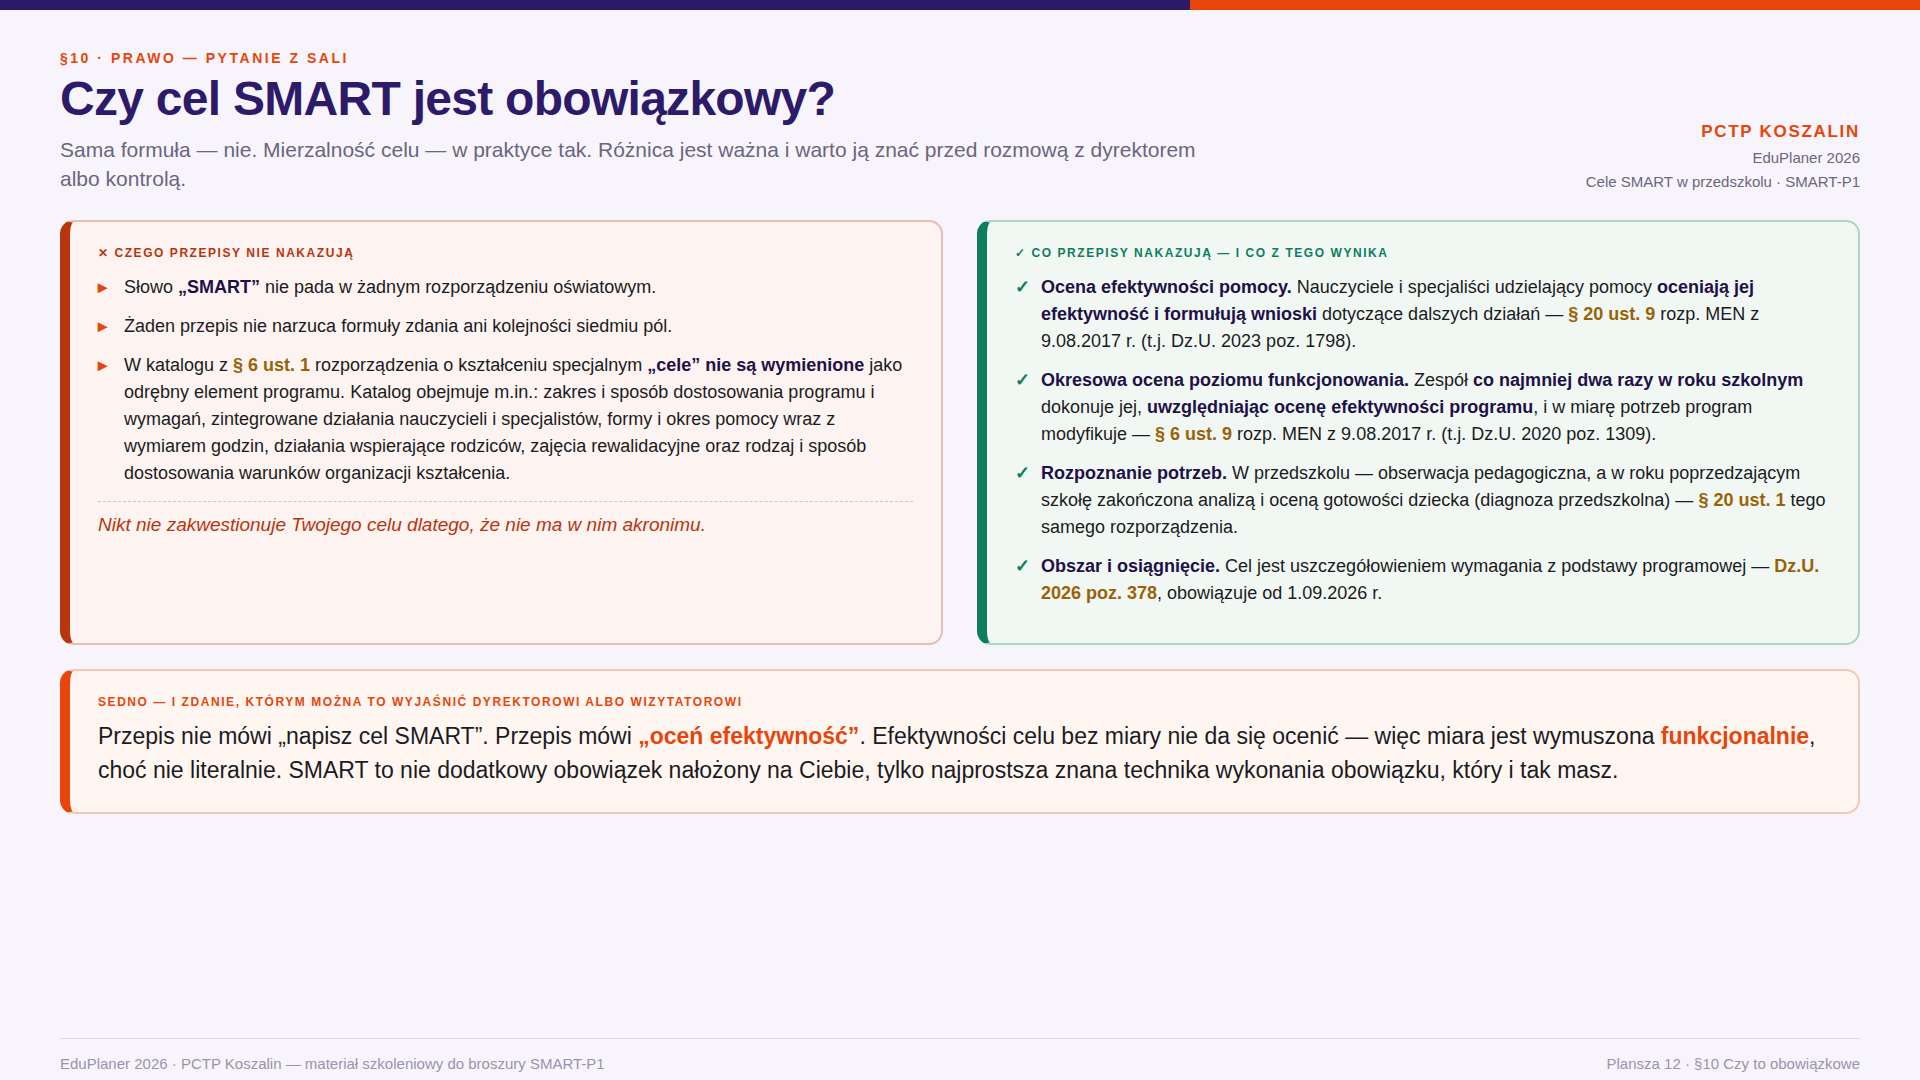
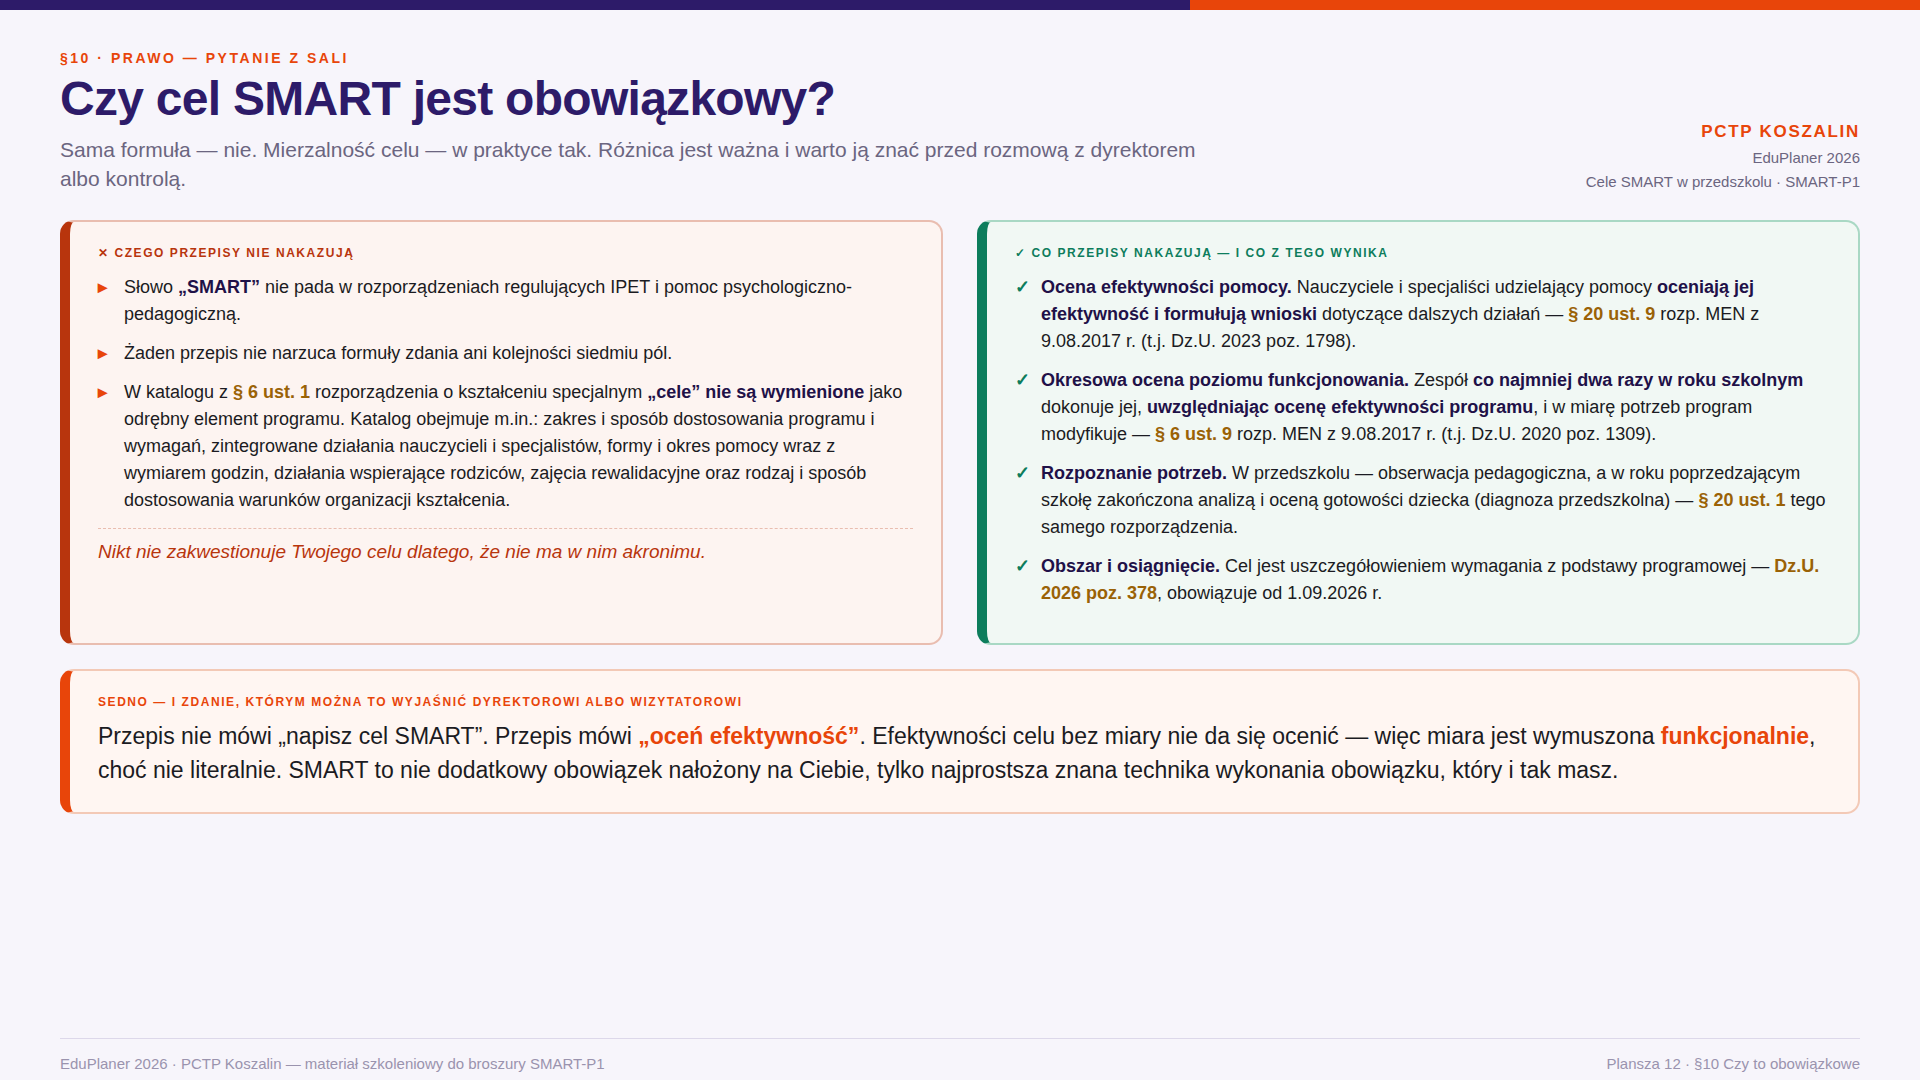
Popraw trzy nadmierne twierdzenia prawne w narracji filmu
Kontrola własnych tez wykryła trzy miejsca, które nie broniły się przed
sprawdzeniem, więc zostały przeredagowane, a nie tylko opatrzone zastrzeżeniem:

1. „Słowo SMART nie pada w żadnym rozporządzeniu oświatowym" — teza o wszystkich
   rozporządzeniach, nie do zweryfikowania. Teraz ograniczona do rozporządzeń
   regulujących IPET i pomoc psychologiczno-pedagogiczną.
2. „§ 6 obowiązuje dalej, w tym samym brzmieniu" — nie potwierdzone; przepisy
   o kształceniu specjalnym były nowelizowane po tekście jednolitym z 2020 r.
   Teraz mówimy, skąd naprawdę płynie obowiązek mierzalności, i dokładamy
   przypomnienie o sprawdzeniu tekstu jednolitego w ISAP.
3. „Cel musi wskazać obszar oraz numer osiągnięcia" — to zalecenie dokumentacyjne
   z broszury, nie nakaz przepisu. Teraz: „w dokumentacji wskazuj".

Dodatkowo „pierwszy przegląd wypadnie w styczniu" zastąpione przez „wypada zwykle
na przełomie semestrów" — przepis mówi o dwóch razach w roku, nie o styczniu.

Plansze, scenariusz i narracja zaktualizowane; zrodla.md dostaje tabelę błędów
z poprawkami oraz listę powołań przepisanych z broszury, których nie udało się
zweryfikować w tej sesji.

Claude-Session: https://claude.ai/code/session_018WRro5h31bSWLV3XxCN4YU

Changed region(s): [[0.0312, 0.2444, 0.4688, 0.5194]]

diff --git a/materialy/cele-smart-w-przedszkolu/plansze/10c_stare_nowe.html b/materialy/cele-smart-w-przedszkolu/plansze/10c_stare_nowe.html
@@ -18,6 +18,7 @@
 .nowe-chipy span{background:#FFF6F2;color:var(--pomarancz);border:1px solid #F3C9B6}
 .dwie ul.pkt li{font-size:17.5px;line-height:1.45;margin-bottom:7px}
 .dwie ul.pkt li b{color:var(--fiolet-cn)}
+.ostrzezenie{margin-top:13px;padding-top:11px;border-top:1px dashed #A9D8C4;font-size:15.5px;line-height:1.45;color:var(--mute)}
 .bez-zmian{margin-top:26px;background:#F1F8F4;border:2px solid #A9D8C4;border-left:10px solid var(--zielony);
  border-radius:14px;padding:20px 26px}
 .trzy{display:grid;grid-template-columns:1fr 1fr 1fr;gap:22px;margin-top:6px}
@@ -53,18 +54,19 @@
     <div class="et2">Dziewięć obszarów</div>
     <div class="chipy nowe-chipy"><span>społeczny</span><span>osobisty</span><span>językowy</span><span>matematyczny</span><span>przyrodniczy</span><span>techniczny</span><span>cyfrowy</span><span>artystyczny</span><span>ruchowy</span></div>
     <ul class="pkt ptaszki">
-      <li>Cel musi wskazać <b>obszar oraz numer osiągnięcia</b> z załącznika.</li>
+      <li>W dokumentacji wskazuj <b>obszar oraz numer osiągnięcia</b> z załącznika.</li>
       <li>To numer osiągnięcia obroni cel przed zespołem i organem nadzoru.</li>
     </ul>
   </div>
 </div>
 <div class="bez-zmian" id="bezzmian">
-  <div class="et2" style="color:var(--zielony)">Czego zmiana NIE ruszyła — te przepisy obowiązują dalej, w tym samym brzmieniu</div>
+  <div class="et2" style="color:var(--zielony)">Czego zmiana NIE ruszyła — to te przepisy, a nie podstawa programowa, wymagają mierzalności</div>
   <div class="trzy">
     <div><b>§ 6</b><span>Rozp. MEN z 9.08.2017 r. o kształceniu specjalnym <i>(t.j. Dz.U. 2020 poz. 1309)</i> — treść IPET oraz okresowa wielospecjalistyczna ocena poziomu funkcjonowania co najmniej dwa razy w roku szkolnym.</span></div>
     <div><b>§ 20 ust. 9</b><span>Rozp. MEN z 9.08.2017 r. o pomocy psychologiczno-pedagogicznej <i>(t.j. Dz.U. 2023 poz. 1798)</i> — ocena efektywności udzielonej pomocy i wnioski do dalszej pracy.</span></div>
-    <div class="wniosek-blok"><b>Wniosek</b><span>Obowiązek <b>mierzalności</b> celu nie zmienił się ani o jotę. Zmienił się wyłącznie <b>adres obszaru</b>, do którego cel przypisujesz — z czterech na dziewięć.</span></div>
+    <div class="wniosek-blok"><b>Wniosek</b><span>Nowa podstawa <b>nie ruszyła obowiązku mierzalności</b> — on płynie z tych dwóch rozporządzeń. Zmienił się <b>adres obszaru</b>, do którego cel przypisujesz: z czterech na dziewięć.</span></div>
   </div>
+  <p class="ostrzezenie">Numery tekstów jednolitych sprawdź w ISAP przed zacytowaniem — rozporządzenia bywają nowelizowane częściej, niż zmienia się ich treść merytoryczna.</p>
 </div></div>
   <div class="stopka"><span>EduPlaner 2026 · PCTP Koszalin — materiał szkoleniowy do broszury SMART-P1</span><span>Plansza 12b · §10 Stare i nowe rozporządzenie</span></div>
 </div></body></html>

diff --git a/materialy/cele-smart-w-przedszkolu/plansze/10b_czy_obowiazkowe.html b/materialy/cele-smart-w-przedszkolu/plansze/10b_czy_obowiazkowe.html
@@ -19,7 +19,7 @@
   <div class="zle-blok">
     <div class="et" style="color:var(--czerwony)">✕ Czego przepisy NIE nakazują</div>
     <ul class="pkt" style="margin-top:14px">
-      <li>Słowo <b>„SMART”</b> nie pada w żadnym rozporządzeniu oświatowym.</li>
+      <li>Słowo <b>„SMART”</b> nie pada w rozporządzeniach regulujących IPET i pomoc psychologiczno-pedagogiczną.</li>
       <li>Żaden przepis nie narzuca formuły zdania ani kolejności siedmiu pól.</li>
       <li>W katalogu z <span class="pp">§ 6 ust. 1</span> rozporządzenia o kształceniu specjalnym
           <b>„cele” nie są wymienione</b> jako odrębny element programu. Katalog obejmuje m.in.:

diff --git a/materialy/cele-smart-w-przedszkolu/zbuduj_scenariusz.py b/materialy/cele-smart-w-przedszkolu/zbuduj_scenariusz.py
@@ -39,7 +39,8 @@ Obserwacja wstępna trwa właśnie w tych tygodniach. Cel wpisany źle we wrześ
 
 Trzecia. Ocena efektywności udzielanej pomocy to obowiązek, nie dobra wola.
 Zespół co najmniej dwa razy w roku ocenia poziom funkcjonowania dziecka i skuteczność programu.
-Pierwszy przegląd wypadnie w styczniu. Do stycznia policzy się tylko to, co ma miarę wpisaną dziś."""),
+Pierwszy przegląd wypada zwykle na przełomie semestrów.
+Policzy się wtedy tylko to, co ma miarę wpisaną dziś."""),
 
 ("3","Cel-życzenie kontra cel-narzędzie","plansze/01_zyczenie_narzedzie.png",80,
  ["§1 · Po co","Zasada trzech osób"],
@@ -284,20 +285,26 @@ Po prawej stan od pierwszego września. Rozporządzenie Ministra Edukacji z jede
 dwa tysiące dwudziestego szóstego roku, pozycja trzysta siedemdziesiąt osiem.
 Obszarów jest teraz dziewięć: społeczny, osobisty, językowy, matematyczny, przyrodniczy,
 techniczny, cyfrowy, artystyczny i ruchowy.
-I ważna różnica — cel musi wskazać obszar oraz numer osiągnięcia z załącznika.
+I praktyczna wskazówka — w dokumentacji wskazuj obszar oraz numer osiągnięcia z załącznika.
+To ten numer obroni cel przed zespołem i organem nadzoru.
 
 A teraz to, co się nie zmieniło, i to jest dobra wiadomość.
-Paragraf szósty rozporządzenia o kształceniu specjalnym obowiązuje dalej, w tym samym brzmieniu.
-Paragraf dwudziesty, ustęp dziewiąty, o ocenie efektywności — tak samo.
-Obowiązek mierzalności celu nie zmienił się ani o jotę.
-Zmienił się wyłącznie adres obszaru, do którego cel przypisujesz. Z czterech na dziewięć."""),
+Obowiązek mierzalności celu nie płynie z podstawy programowej, tylko z dwóch innych rozporządzeń —
+o kształceniu specjalnym i o pomocy psychologiczno-pedagogicznej. Te obowiązują dalej.
+Zmiana podstawy ich nie ruszyła.
+Zmienił się wyłącznie adres obszaru, do którego cel przypisujesz. Z czterech na dziewięć.
+
+Jedno zastrzeżenie, żeby uniknąć wpadki. Numery tekstów jednolitych sprawdź w bazie ISAP,
+zanim je zacytujesz w dokumencie.
+Rozporządzenia bywają nowelizowane częściej, niż zmienia się ich treść merytoryczna."""),
 
 ("14","Czy cel SMART jest obowiązkowy","plansze/10b_czy_obowiazkowe.png",95,
  ["§10 · Pytanie z sali","Formuła — nie. Miara — tak."],
  """To pytanie pada na każdym szkoleniu, więc odpowiem na nie wprost. Czy cel SMART jest obowiązkowy?
 
 Sama formuła — nie. I dobrze o tym wiedzieć, zanim ktoś zapyta.
-Słowo „SMART” nie pada w żadnym rozporządzeniu oświatowym. Żaden przepis nie narzuca formuły zdania
+Słowo „SMART” nie pada w rozporządzeniach, które regulują program edukacyjno-terapeutyczny
+i pomoc psychologiczno-pedagogiczną. Żaden przepis nie narzuca formuły zdania
 ani kolejności siedmiu pól. Co więcej — w katalogu tego, co określa program edukacyjno-terapeutyczny,
 same cele nie są wymienione jako odrębny element. Ten katalog mówi o zakresie i sposobie dostosowania,
 o zintegrowanych działaniach nauczycieli i specjalistów, o formach i okresie pomocy, o zajęciach rewalidacyjnych.

diff --git a/materialy/cele-smart-w-przedszkolu/zbuduj_animacje.py b/materialy/cele-smart-w-przedszkolu/zbuduj_animacje.py
@@ -87,6 +87,7 @@ SEGMENTY = [
    (None, "", "#porownanie .stare"),
    (None, "", "#porownanie .nowe"),
    (None, "", "#bezzmian"),
+   (None, "", ".ostrzezenie"),
  ]},
  {"audio": "s6.mp3", "plansza": "10_podstawa_prawna.html", "ujecia": [
    (None, "", None),

diff --git a/materialy/cele-smart-w-przedszkolu/scenariusz_filmu.md b/materialy/cele-smart-w-przedszkolu/scenariusz_filmu.md
@@ -8,8 +8,8 @@
 | Parametr | Wartość |
 |---|---|
 | Liczba scen | 16 |
-| Szacowany czas | ok. 18 min 55 s |
-| Liczba słów narracji | 2830 |
+| Szacowany czas | ok. 19 min 10 s |
+| Liczba słów narracji | 2871 |
 | Tempo | ok. 150 słów/min (polski lektor) |
 | Format obrazu | 16:9, 1920 × 1080 px (konspekt: A4, 1240 × 1754 px) |
 | Marka | fiolet `#2D1B69` + pomarańcz `#E8450A`, Arial |
@@ -50,7 +50,7 @@ czytają polskie liczebniki niepewnie. Pusta linia oznacza naturalną pauzę.
 
 ## Scena 2 · Dlaczego akurat teraz
 
-**Czas:** ok. 50 s (125 słów) · **Plansza:** `plansze/12_dlaczego_teraz.png`
+**Czas:** ok. 50 s (126 słów) · **Plansza:** `plansze/12_dlaczego_teraz.png`
 
 **Tekst na ekranie:** Nowa podstawa · wrzesień · ocena efektywności
 
@@ -67,7 +67,8 @@ czytają polskie liczebniki niepewnie. Pusta linia oznacza naturalną pauzę.
 >
 > Trzecia. Ocena efektywności udzielanej pomocy to obowiązek, nie dobra wola.
 > Zespół co najmniej dwa razy w roku ocenia poziom funkcjonowania dziecka i skuteczność programu.
-> Pierwszy przegląd wypadnie w styczniu. Do stycznia policzy się tylko to, co ma miarę wpisaną dziś.
+> Pierwszy przegląd wypada zwykle na przełomie semestrów.
+> Policzy się wtedy tylko to, co ma miarę wpisaną dziś.
 
 ---
 
@@ -382,7 +383,7 @@ czytają polskie liczebniki niepewnie. Pusta linia oznacza naturalną pauzę.
 
 ## Scena 13 · Stare i nowe rozporządzenie
 
-**Czas:** ok. 70 s (170 słów) · **Plansza:** `plansze/10c_stare_nowe.png`
+**Czas:** ok. 80 s (205 słów) · **Plansza:** `plansze/10c_stare_nowe.png`
 
 **Tekst na ekranie:** §10 · Zmiana podstawy · 2017 poz. 356 → 2026 poz. 378
 
@@ -400,19 +401,24 @@ czytają polskie liczebniki niepewnie. Pusta linia oznacza naturalną pauzę.
 > dwa tysiące dwudziestego szóstego roku, pozycja trzysta siedemdziesiąt osiem.
 > Obszarów jest teraz dziewięć: społeczny, osobisty, językowy, matematyczny, przyrodniczy,
 > techniczny, cyfrowy, artystyczny i ruchowy.
-> I ważna różnica — cel musi wskazać obszar oraz numer osiągnięcia z załącznika.
+> I praktyczna wskazówka — w dokumentacji wskazuj obszar oraz numer osiągnięcia z załącznika.
+> To ten numer obroni cel przed zespołem i organem nadzoru.
 >
 > A teraz to, co się nie zmieniło, i to jest dobra wiadomość.
-> Paragraf szósty rozporządzenia o kształceniu specjalnym obowiązuje dalej, w tym samym brzmieniu.
-> Paragraf dwudziesty, ustęp dziewiąty, o ocenie efektywności — tak samo.
-> Obowiązek mierzalności celu nie zmienił się ani o jotę.
+> Obowiązek mierzalności celu nie płynie z podstawy programowej, tylko z dwóch innych rozporządzeń —
+> o kształceniu specjalnym i o pomocy psychologiczno-pedagogicznej. Te obowiązują dalej.
+> Zmiana podstawy ich nie ruszyła.
 > Zmienił się wyłącznie adres obszaru, do którego cel przypisujesz. Z czterech na dziewięć.
+>
+> Jedno zastrzeżenie, żeby uniknąć wpadki. Numery tekstów jednolitych sprawdź w bazie ISAP,
+> zanim je zacytujesz w dokumencie.
+> Rozporządzenia bywają nowelizowane częściej, niż zmienia się ich treść merytoryczna.
 
 ---
 
 ## Scena 14 · Czy cel SMART jest obowiązkowy
 
-**Czas:** ok. 90 s (227 słów) · **Plansza:** `plansze/10b_czy_obowiazkowe.png`
+**Czas:** ok. 95 s (232 słowa) · **Plansza:** `plansze/10b_czy_obowiazkowe.png`
 
 **Tekst na ekranie:** §10 · Pytanie z sali · Formuła — nie. Miara — tak.
 
@@ -421,7 +427,8 @@ czytają polskie liczebniki niepewnie. Pusta linia oznacza naturalną pauzę.
 > To pytanie pada na każdym szkoleniu, więc odpowiem na nie wprost. Czy cel SMART jest obowiązkowy?
 >
 > Sama formuła — nie. I dobrze o tym wiedzieć, zanim ktoś zapyta.
-> Słowo „SMART” nie pada w żadnym rozporządzeniu oświatowym. Żaden przepis nie narzuca formuły zdania
+> Słowo „SMART” nie pada w rozporządzeniach, które regulują program edukacyjno-terapeutyczny
+> i pomoc psychologiczno-pedagogiczną. Żaden przepis nie narzuca formuły zdania
 > ani kolejności siedmiu pól. Co więcej — w katalogu tego, co określa program edukacyjno-terapeutyczny,
 > same cele nie są wymienione jako odrębny element. Ten katalog mówi o zakresie i sposobie dostosowania,
 > o zintegrowanych działaniach nauczycieli i specjalistów, o formach i okresie pomocy, o zajęciach rewalidacyjnych.

diff --git a/materialy/cele-smart-w-przedszkolu/zrodla.md b/materialy/cele-smart-w-przedszkolu/zrodla.md
@@ -82,6 +82,22 @@ uznaje się za mierzalny, gdy zawiera cztery elementy: **termin, warunki, zachow
 - https://www.ecfr.gov/current/title-34/subtitle-B/chapter-III/part-300/subpart-D/subject-group-ECFR28b07e67452ed7a/section-300.320
 - https://sites.ed.gov/idea/regs/b/d/300.320
 
+## Błędy znalezione w pierwszej wersji narracji — i jak zostały poprawione
+
+Kontrola własnych twierdzeń wykryła trzy rzeczy, które nie broniły się przed sprawdzeniem.
+Zapisuję je razem z poprawką, żeby nie wróciły przy kolejnej redakcji.
+
+| # | Co było | Dlaczego to błąd | Jak brzmi teraz |
+|---|---|---|---|
+| 1 | „Słowo SMART nie pada w **żadnym rozporządzeniu oświatowym**" | Twierdzenie o wszystkich rozporządzeniach — nie do zweryfikowania i wystarczy jeden kontrprzykład, żeby upadło | „…nie pada w rozporządzeniach, **które regulują program edukacyjno-terapeutyczny i pomoc psychologiczno-pedagogiczną**" |
+| 2 | „§ 6 … obowiązuje dalej, **w tym samym brzmieniu**" | Nie potwierdzone. Przepisy o kształceniu specjalnym były nowelizowane po tekście jednolitym z 2020 r. (m.in. Dz.U. 2025 poz. 1111) — twierdzenie o niezmienionym brzmieniu jest ryzykowne | „Obowiązek mierzalności **nie płynie z podstawy programowej, tylko z dwóch innych rozporządzeń** … Te obowiązują dalej, zmiana podstawy ich nie ruszyła" + zastrzeżenie o sprawdzeniu tekstu jednolitego w ISAP |
+| 3 | „Cel **musi** wskazać obszar oraz numer osiągnięcia z załącznika" | To zalecenie dokumentacyjne z broszury, a nie literalny nakaz przepisu — „musi" sugeruje obowiązek prawny | „**W dokumentacji wskazuj** obszar oraz numer osiągnięcia … To ten numer obroni cel przed zespołem i organem nadzoru" |
+| 4 | „Pierwszy przegląd **wypadnie w styczniu**" | Przepis nie wyznacza stycznia — mówi o „co najmniej dwóch razach w roku szkolnym" | „Pierwszy przegląd **wypada zwykle na przełomie semestrów**" |
+
+Do sprawdzenia przy okazji, przepisane z broszury i nieweryfikowane w tej sesji:
+powołania na **art. 1, art. 47 ust. 1 pkt 5 i art. 127** Prawa oświatowego (plansza §10)
+oraz dokładny paragraf rozporządzenia o WWRD.
+
 ## Kontrola przepisów — co zostało zweryfikowane u źródła
 
 Każde twierdzenie prawne z filmu przeszło osobne sprawdzenie. Poniżej stan tej kontroli,
